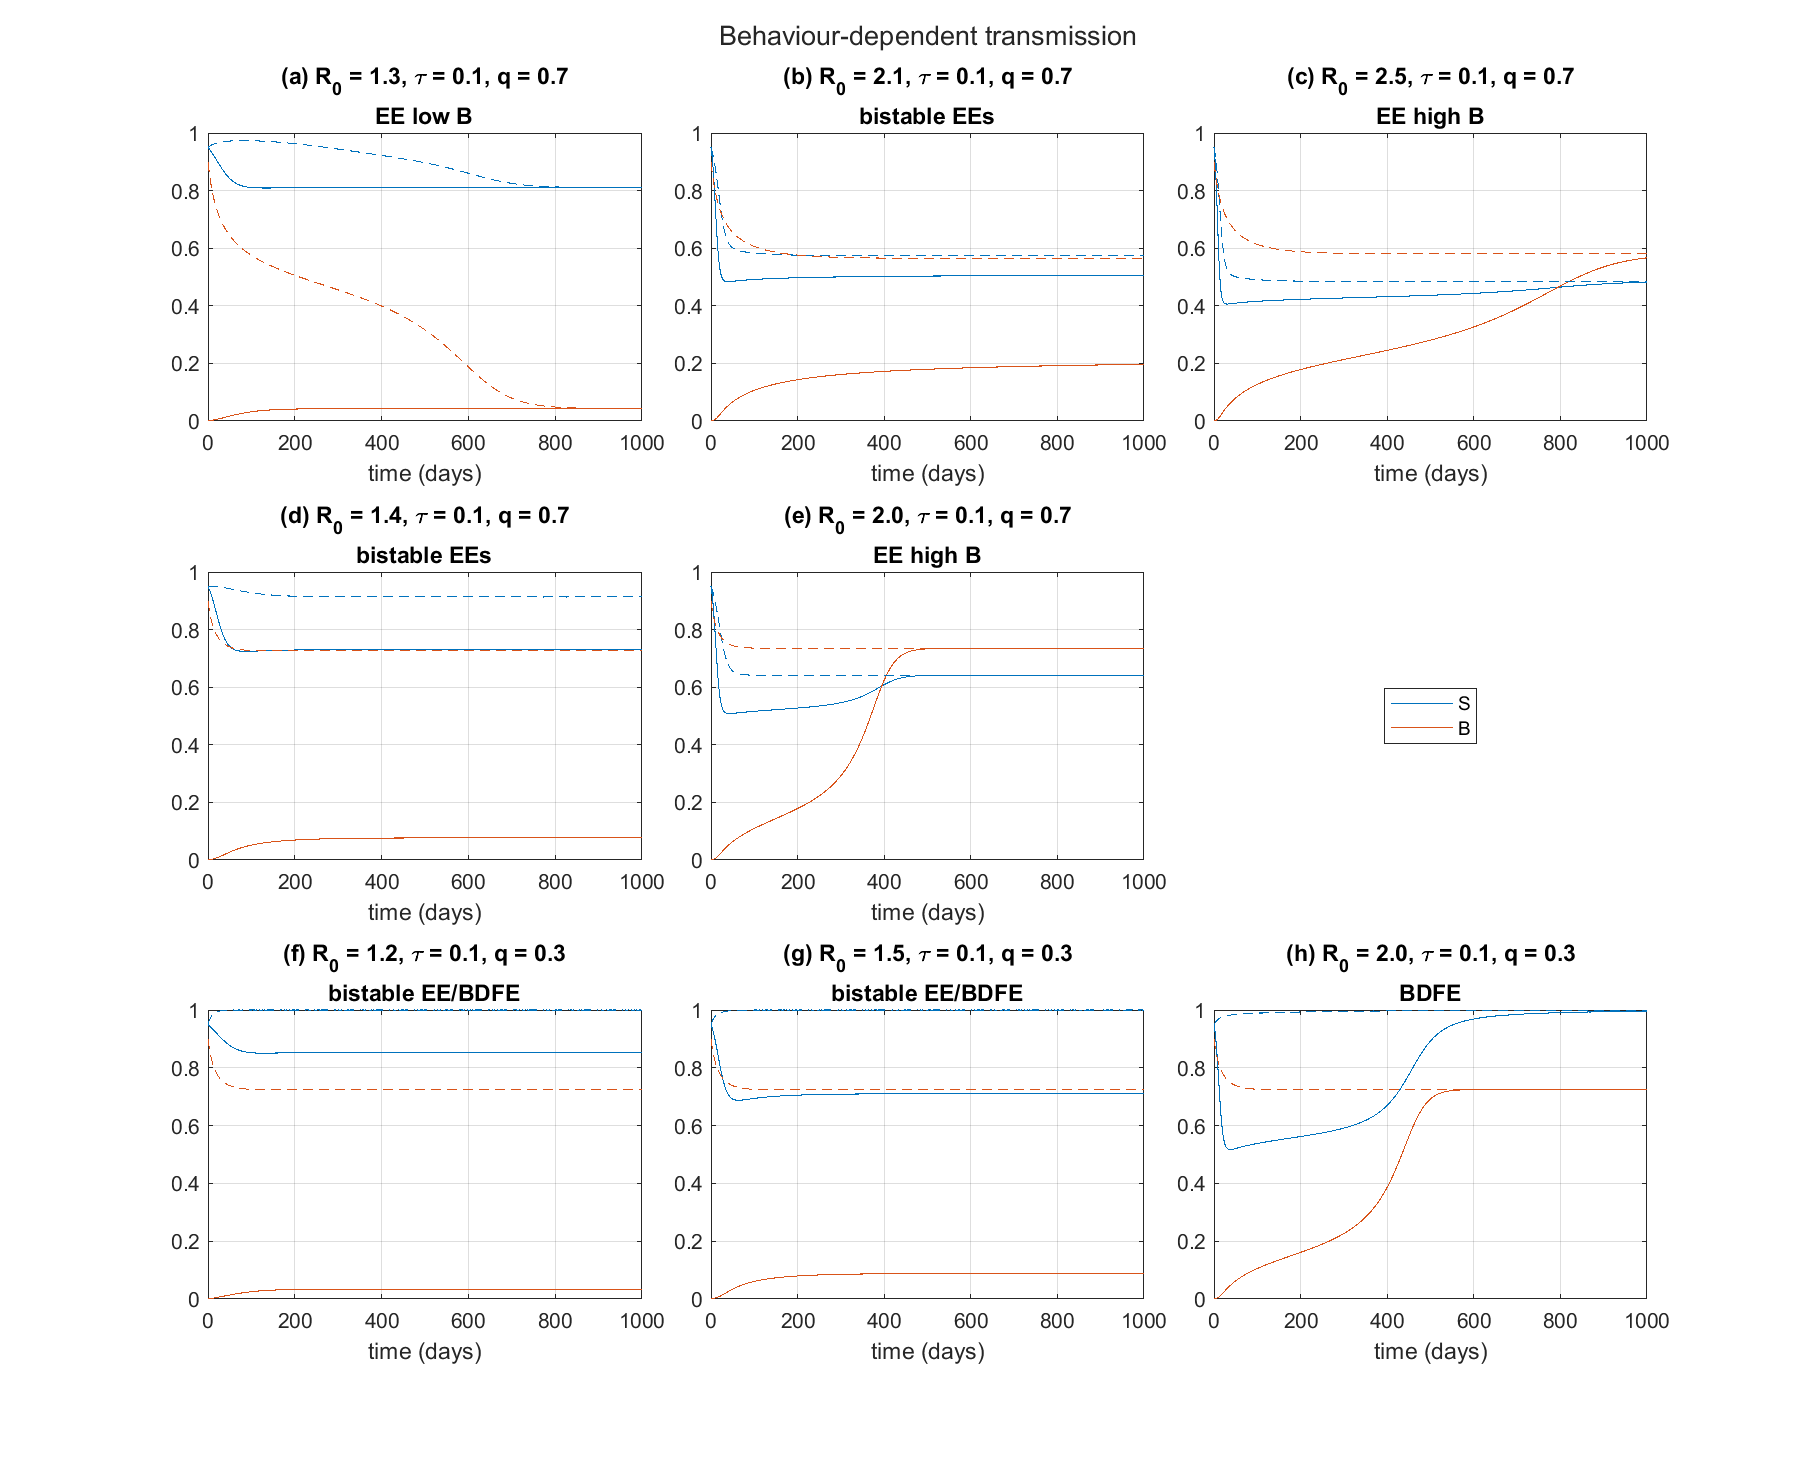
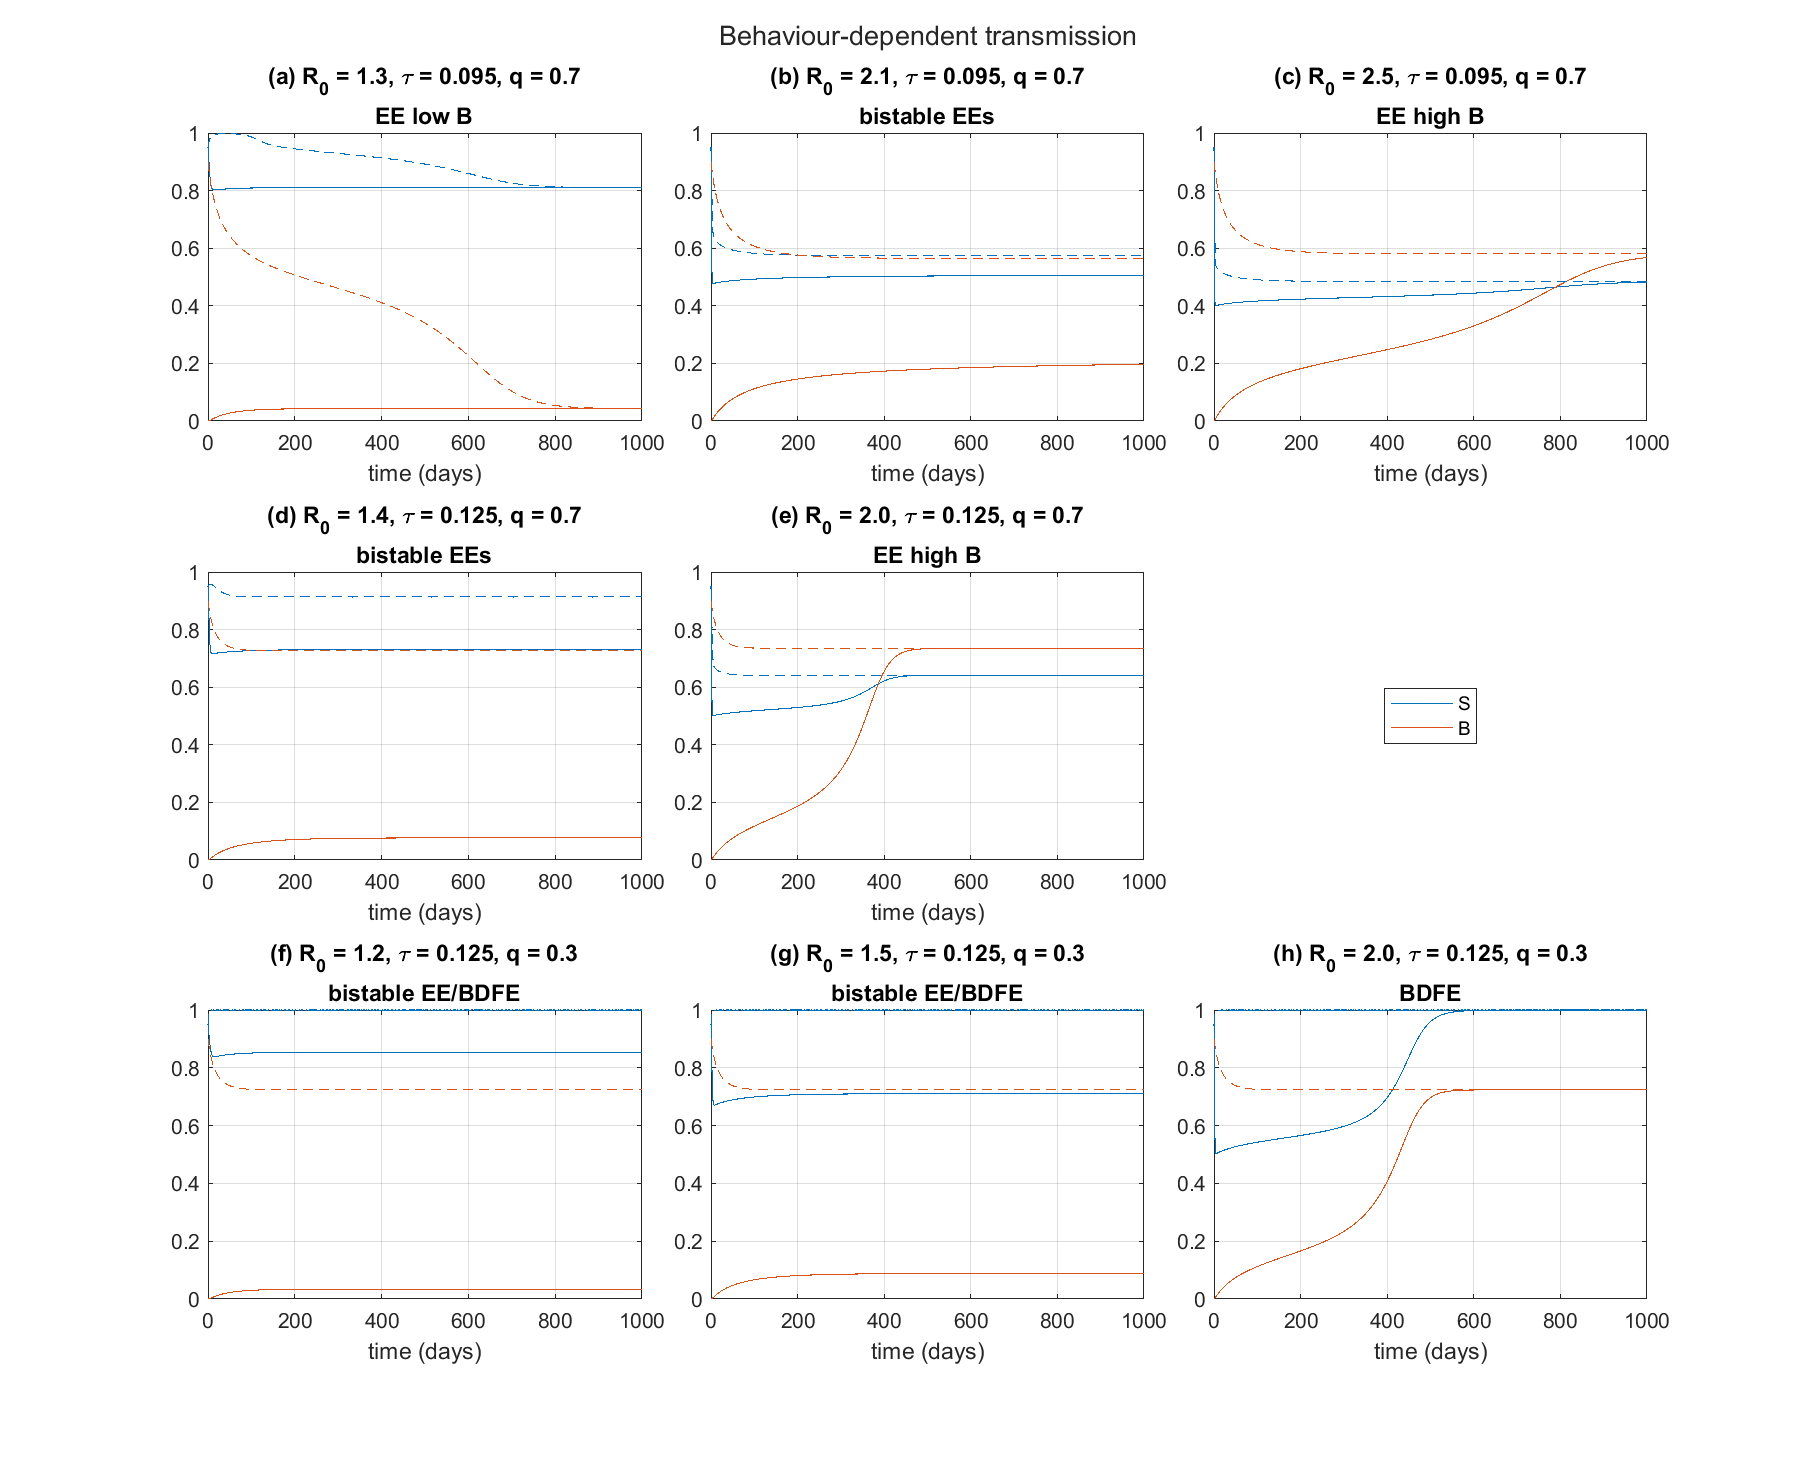
Minor tweaks

diff --git a/runODEs.m b/runODEs.m
@@ -85,7 +85,7 @@ for iType = 1:2
         ylim([0 1])
         grid on
         xlabel('time (days)')
-        title(lbls(iCase) + " R_0 = " + sprintf('%.1f', par.Beta/par.Gamma) +  ", \tau = " + sprintf('%.1f', par.Tau) +  ", q = " + sprintf('%.1f\n', par.q) + desc(iCase))
+        title(lbls(iCase) + " R_0 = " + sprintf('%.1f', par.Beta/par.Gamma) +  ", \tau = " + sprintf('%.3f', par.Tau) +  ", q = " + sprintf('%.1f\n', par.q) + desc(iCase))
     
     end
     

diff --git a/getPar.m b/getPar.m
@@ -40,3 +40,6 @@ else
     par.q = 0.3;
 end
 
+% par.Beta = 10*par.Beta;
+% par.Gamma = 10*par.Gamma;
+
